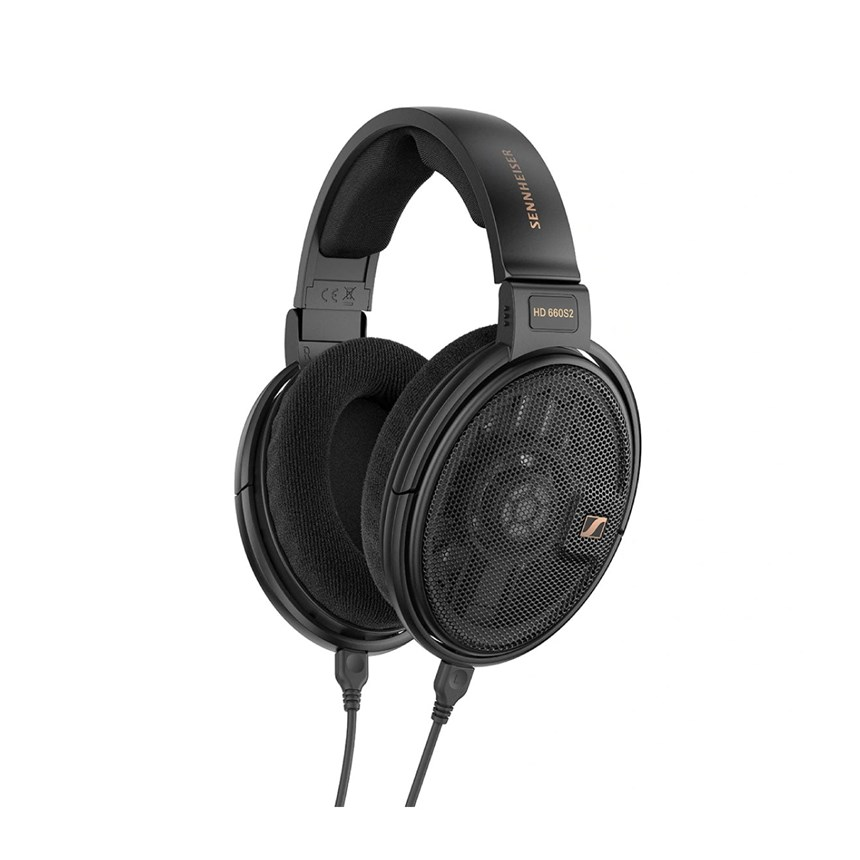
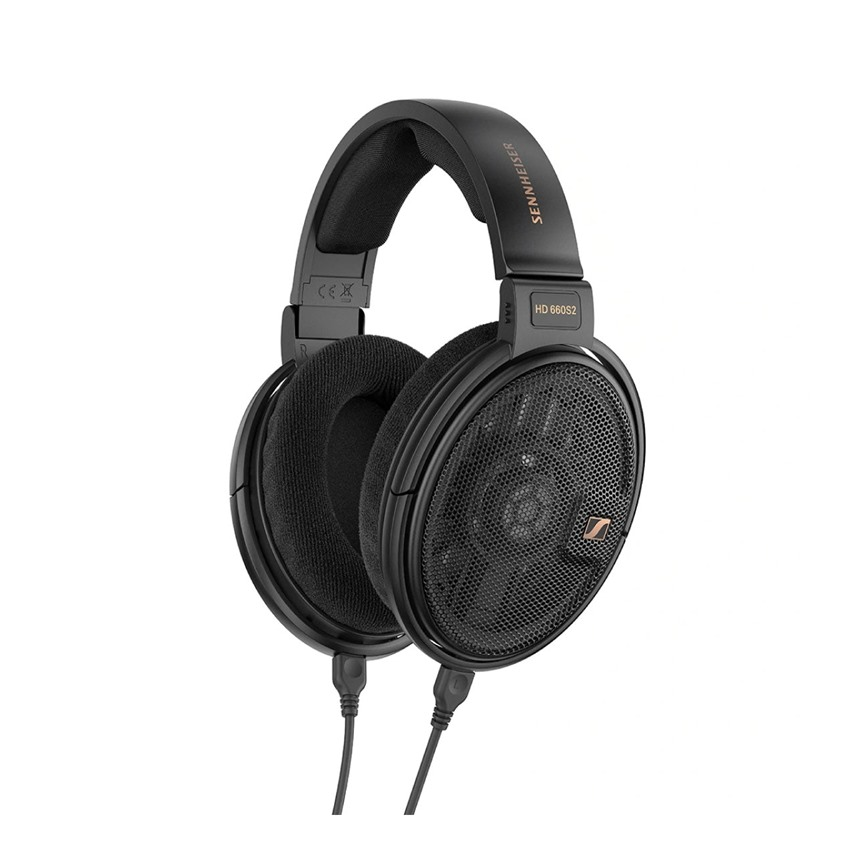
Improve SoundShoppie card fills: cover landscape shots, restore masters.

Changed region(s): [[0.2419, 0.0907, 0.7558, 0.9674], [0.4535, 0.2116, 0.4837, 0.2721]]

diff --git a/doomsday/soundshoppie/index.html b/doomsday/soundshoppie/index.html
@@ -472,7 +472,7 @@
         <div class="card-deck d-flex justify-content-center align-items-stretch flex-wrap">
           <div class="product-card m-2">
             <div class="image-container">
-              <img class="card-img-top" src="./products/wh-1000xm.jpg?v=6" alt="Sony WH-1000XM4" />
+              <img class="card-img-top" src="./products/wh-1000xm.jpg?v=7" alt="Sony WH-1000XM4" />
             </div>
             <div class="card-body">
               <h5 class="card-title">WH-1000XM4</h5>
@@ -487,7 +487,7 @@
           </div>
           <div class="product-card m-2">
             <div class="image-container">
-              <img class="card-img-top" src="./products/qc45.jpg?v=6" alt="Bose QuietComfort 45" />
+              <img class="card-img-top" src="./products/qc45.jpg?v=7" alt="Bose QuietComfort 45" />
             </div>
             <div class="card-body">
               <h5 class="card-title">QC45</h5>
@@ -502,7 +502,7 @@
           </div>
           <div class="product-card m-2">
             <div class="image-container">
-              <img class="card-img-top" src="./products/ie-600.jpg?v=6" alt="Sennheiser IE 600" />
+              <img class="card-img-top" src="./products/ie-600.jpg?v=7" alt="Sennheiser IE 600" />
             </div>
             <div class="card-body">
               <h5 class="card-title">IE 600</h5>
@@ -517,7 +517,7 @@
           </div>
           <div class="product-card m-2">
             <div class="image-container">
-              <img class="card-img-top" src="./products/ath-m50.jpg?v=6" alt="Audio-Technica ATH-M50x" />
+              <img class="card-img-top" src="./products/ath-m50.jpg?v=7" alt="Audio-Technica ATH-M50x" />
             </div>
             <div class="card-body">
               <h5 class="card-title">ATH-M50x</h5>
@@ -532,7 +532,7 @@
           </div>
           <div class="product-card m-2">
             <div class="image-container">
-              <img class="card-img-top" src="./products/tune-760.jpg?v=6" alt="JBL Tune 760NC" />
+              <img class="card-img-top" src="./products/tune-760.jpg?v=7" alt="JBL Tune 760NC" />
             </div>
             <div class="card-body">
               <h5 class="card-title">Tune 760NC</h5>
@@ -550,7 +550,7 @@
               <span class="badge rounded-pill badge-notification bg-danger">
                 <div><div class="m-1">15 %</div><div class="m-1">off</div></div>
               </span>
-              <img class="card-img-top" src="./products/wf-1000.jpg?v=6" alt="Sony WF-1000XM4" />
+              <img class="card-img-top" src="./products/wf-1000.jpg?v=7" alt="Sony WF-1000XM4" />
             </div>
             <div class="card-body">
               <h5 class="card-title">WF-1000XM4</h5>
@@ -566,7 +566,7 @@
           </div>
           <div class="product-card m-2">
             <div class="image-container">
-              <img class="card-img-top" src="./products/t5-ii.jpg?v=6" alt="Klipsch T5 II" />
+              <img class="card-img-top" src="./products/t5-ii.jpg?v=7" alt="Klipsch T5 II" />
             </div>
             <div class="card-body">
               <h5 class="card-title">T5 II</h5>
@@ -582,7 +582,7 @@
           <div class="product-card m-2">
             <div class="image-container">
               <div class="overlay"><p class="overlay-text">Out of Stock</p></div>
-              <img class="card-img-top" src="./products/hd-660.jpg?v=6" alt="Sennheiser HD 660S2" />
+              <img class="card-img-top" src="./products/hd-660.jpg?v=7" alt="Sennheiser HD 660S2" />
             </div>
             <div class="card-body">
               <h5 class="card-title">HD 660S2</h5>
